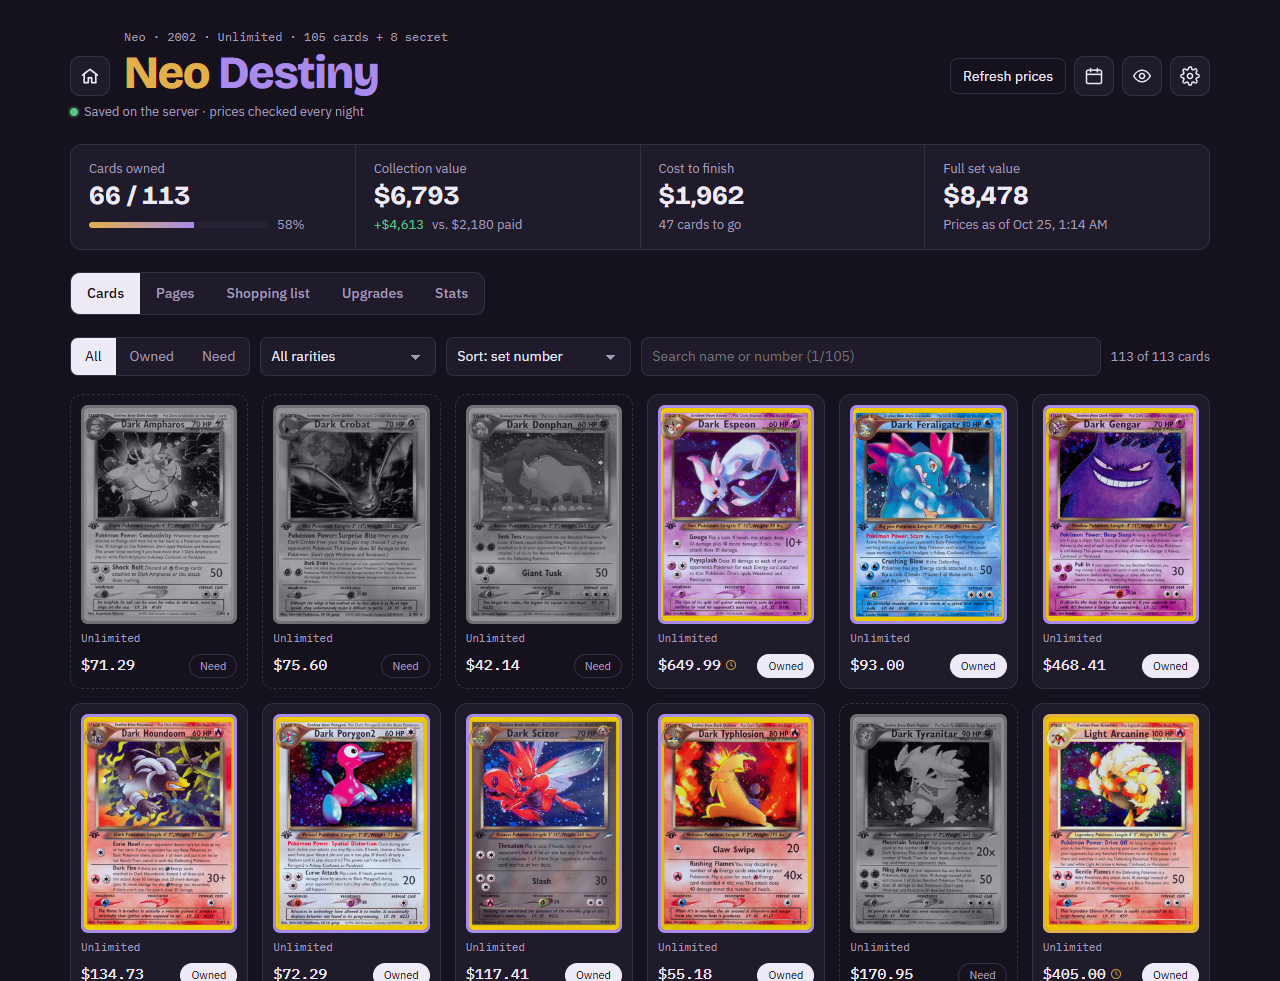
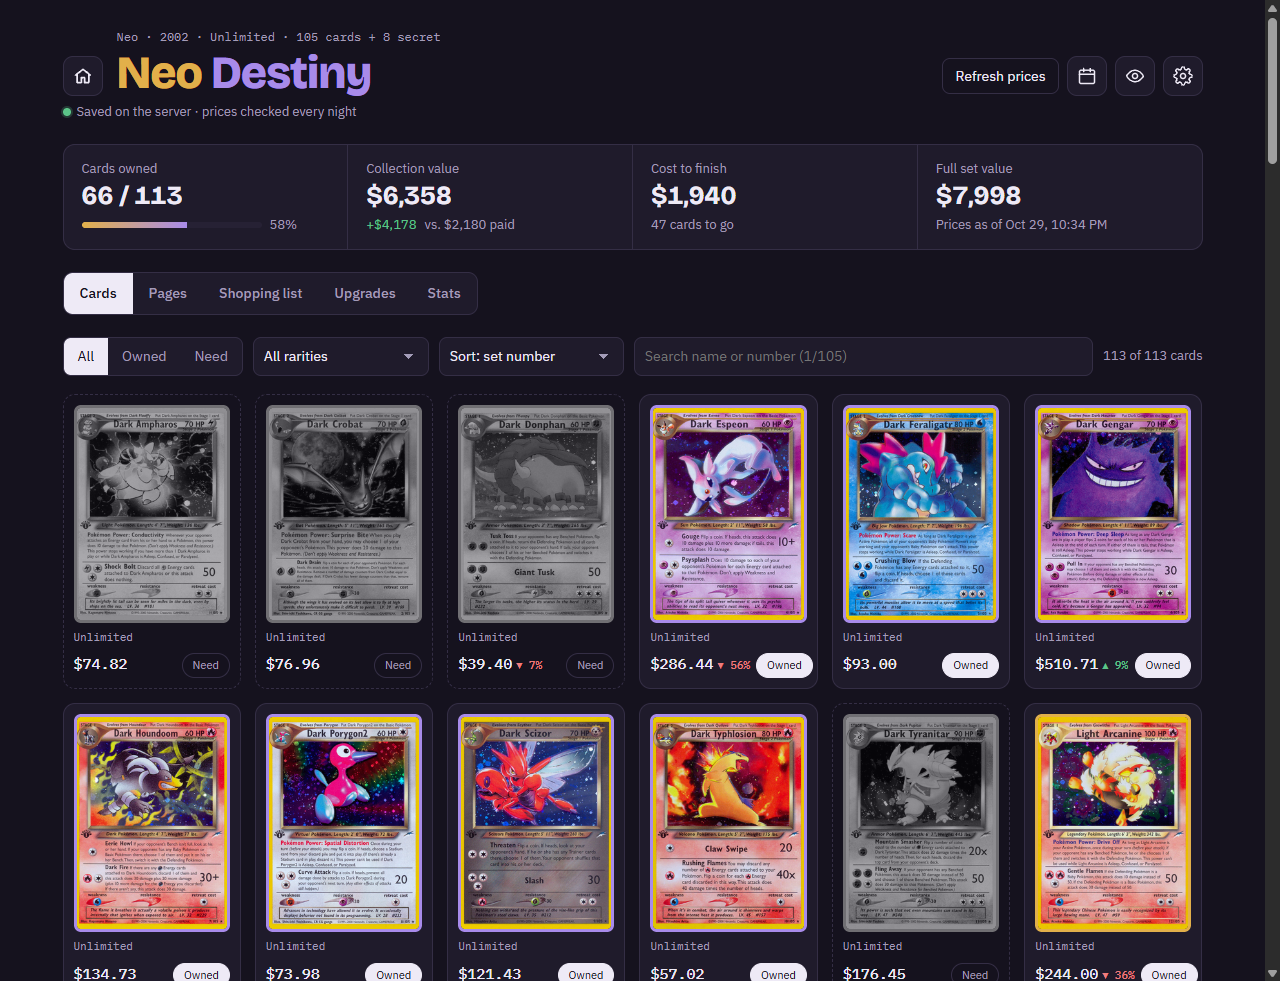
README: card show features, updated captions, new card details, my copy and binder screenshots

diff --git a/README.md b/README.md
@@ -8,9 +8,10 @@ A self-hosted Pokémon TCG collection tracker: one small Python server (standard
 - **Binders your way:** any English set, a Pokémon master set (every card of one Pokémon, like all the Totodile cards), or your own mix (Favorites, Trade pile). Owned cards in color, needed ones in greyscale.
 - **Real binder pages:** lay cards out 4, 9, 12 or 16 to a page, with a cover. **Find a card** searches every English card by name, number (like `80/111`) or set.
 - **Prices from recent sales:** TCGplayer's newest sales for each condition (LP and MP by default), with TCGdex market prices as a backup. Daily refresh, price history, biggest movers, a shopping list with a budget, and an upgrades list.
-- **Your copies:** condition, notes, front and back photos, and a purchase log (price, place, seller).
+- **At the card show:** card show mode lists every card you still need, with a big **Got it** button. Type a vendor's asking price to see if it's a good deal, what to offer and when to walk away. Scan a PSA slab's label to check it's real and see recent sales for that grade.
+- **Your copies:** condition, notes, front and back photos, and a purchase log (price, place, seller). Zoom in on a holo and it shimmers like the real card.
 - **Phone app (Android):** install it, open it with no signal, mark cards owned offline, sync when you're back.
-- **Safe and private:** privacy mode (eye button), automatic backups, one-file backup and restore, spreadsheet import and export, and updates only when you choose.
+- **Safe and private:** privacy mode (eye button), automatic backups, one-file backup and restore, spreadsheet import and export (with price trends), and updates only when you choose.
 
 Also: custom cards for anything the card database is missing, upcoming card shows in your towns, and five dark themes.
 
@@ -20,7 +21,7 @@ Also: custom cards for anything the card database is missing, upcoming card show
 
 ![The home page with a shelf of binders](screenshots/home.png)
 
-**The binder.** Owned cards in color, cards you still need in greyscale, with totals at the top and each card's price trend. Under the totals, a map of every binder page shows where the gaps are; tap a page to open it.
+**The binder.** Owned cards in color, cards you still need in greyscale, with totals at the top and each card's price trend. Filter by owned or needed, rarity, or name, and sort by number, rarity, Pokédex number or value.
 
 ![The binder's main page](screenshots/binder.png)
 
@@ -28,11 +29,11 @@ Also: custom cards for anything the card database is missing, upcoming card show
 
 ![The Pages view with the inside cover and page 1](screenshots/pages.png)
 
-**Card details.** The card and the price to buy one, from recent sales, with how it's worked out a tap away. Below are the newest sales for every condition, so you can see whether a different condition is worth it.
+**Card details.** The price to buy one, from recent sales, with its trend and how it's worked out a tap away. Type what a vendor is asking to see if it's a good deal, what to offer and when to walk away. Below are the newest sales for every condition, so you can see whether a different condition is worth it.
 
 ![Card details with prices and recent sales](screenshots/card-details.png)
 
-**Your copy.** Copies owned, condition, a purchase log with where you bought it and from whom, notes, and photos of your own card.
+**Your copy.** Copies owned, condition, a purchase log with where you bought it and from whom (one tap for eBay, TCGplayer, a card show or a place you've used before), notes, and photos of your own card.
 
 ![Card details, My copy tab](screenshots/my-copy.png)
 
@@ -177,6 +178,7 @@ docker exec <container name> python server.py --test neo4-1
 - **[Tracearr](https://github.com/connorgallopo/Tracearr)** by Connor Gallopo inspired the What's new window (versions grouped with Installed and Latest tags, opened from the version number), the update notice, and the sets menu that slides out and pushes the page over. I showed Claude (the AI assistant this app is built with) screenshots and a screen recording of Tracearr, and it wrote this app's own versions. None of Tracearr's code was used.
 - Card lists: [PokemonTCG/pokemon-tcg-data](https://github.com/PokemonTCG/pokemon-tcg-data); card images and set logos from the [Pokémon TCG API](https://pokemontcg.io)
 - Pokémon sprites and artwork (covers, master sets, Unown letters): [PokeAPI/sprites](https://github.com/PokeAPI/sprites)
+- PSA slab checks: PSA's public cert pages
 - Prices: TCGplayer recent sales, market prices from [TCGdex](https://tcgdex.dev) (TCGplayer and Cardmarket), and graded sales from PriceCharting (when it lets the server in; it often blocks home servers)
 - Euro to US dollar rate: [Frankfurter](https://frankfurter.dev)
 - Card show listings: [TreasureHunter.show](https://www.treasurehunter.show)
